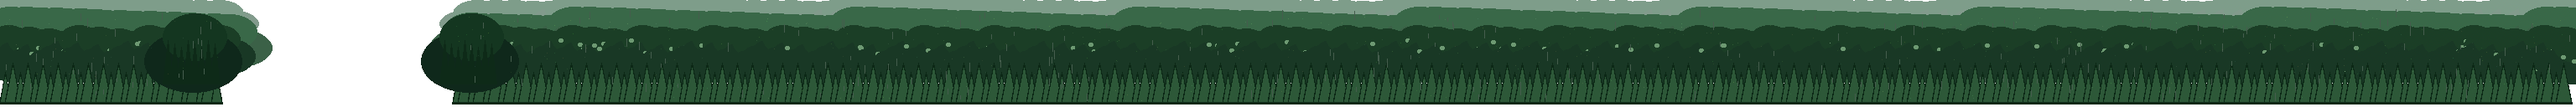
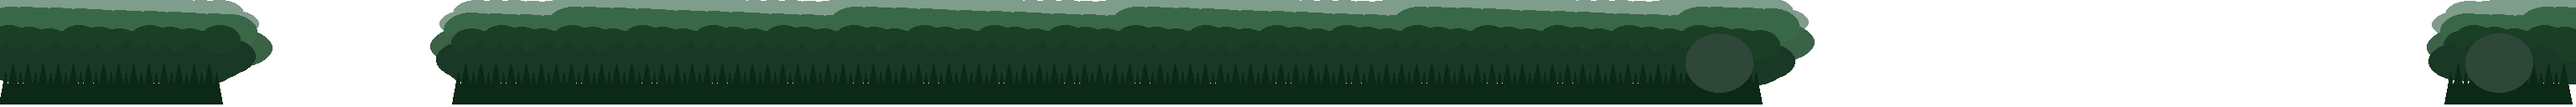
feat(oakhaven): reveal waterfall bowl and station hall through canopy windows
Punch skyline/pine windows, raise the amphitheater falls, and reframe goldens so station hall+train and the north waterfall read as hero landmarks.

diff --git a/projects/06-game-factory/perfect_game/perfect-game/tools/gen_station_waterfall_p151.py b/projects/06-game-factory/perfect_game/perfect-game/tools/gen_station_waterfall_p151.py
@@ -1,0 +1,282 @@
+#!/usr/bin/env python3
+"""P151 — station hall + steam train + pine canopy station window; refresh waterfall bowl."""
+from __future__ import annotations
+
+import math
+import random
+from pathlib import Path
+
+from PIL import Image, ImageDraw, ImageFilter
+
+PROC = Path(__file__).resolve().parents[1] / "assets" / "processed"
+WORLD_W = 192 * 16
+rng = random.Random(151)
+
+
+def blit_text(img: Image.Image, x: int, y: int, text: str, color) -> None:
+    font = {
+        "A": ["01110", "10001", "10001", "11111", "10001", "10001", "10001"],
+        "E": ["11111", "10000", "10000", "11110", "10000", "10000", "11111"],
+        "H": ["10001", "10001", "10001", "11111", "10001", "10001", "10001"],
+        "K": ["10001", "10010", "10100", "11000", "10100", "10010", "10001"],
+        "N": ["10001", "11001", "10101", "10011", "10001", "10001", "10001"],
+        "O": ["01110", "10001", "10001", "10001", "10001", "10001", "01110"],
+        "R": ["11110", "10001", "10001", "11110", "10100", "10010", "10001"],
+        "S": ["01111", "10000", "10000", "01110", "00001", "00001", "11110"],
+        "T": ["11111", "00100", "00100", "00100", "00100", "00100", "00100"],
+        "I": ["11111", "00100", "00100", "00100", "00100", "00100", "00100"],
+        " ": ["00000", "00000", "00000", "00000", "00000", "00000", "00000"],
+    }
+    for ch in text:
+        rows = font.get(ch, font[" "])
+        for r, row in enumerate(rows):
+            for c, bit in enumerate(row):
+                if bit == "1" and 0 <= x + c < img.width and 0 <= y + r < img.height:
+                    img.putpixel((x + c, y + r), color)
+        x += 6
+
+
+def pine_canopy() -> None:
+    """North pine mass — waterfall + station windows kept open."""
+    w, h = WORLD_W, 128
+    img = Image.new("RGBA", (w, h), (0, 0, 0, 0))
+    d = ImageDraw.Draw(img)
+
+    def in_wf(x: int) -> bool:
+        return 260 <= x <= 540
+
+    def in_station(x: int) -> bool:
+        # Station hall/platform band (tile ~136–178 → ~2176–2848)
+        return 2100 <= x <= 2920
+
+    for x in range(0, w, 22):
+        if in_wf(x) or in_station(x):
+            continue
+        cx, cy = x + 18, 22 + (x // 55) % 6
+        d.ellipse((cx - 44, cy - 16, cx + 48, cy + 20), fill=(55, 95, 72, 160))
+        d.ellipse((cx - 28, cy - 26, cx + 30, cy + 6), fill=(62, 108, 80, 170))
+    for x in range(0, w, 16):
+        if in_wf(x) or in_station(x):
+            continue
+        cx = x + 12 + (x % 7)
+        cy = 42 + (x // 28) % 12
+        d.ellipse((cx - 48, cy - 18, cx + 52, cy + 30), fill=(28, 72, 42, 220))
+        d.ellipse((cx - 32, cy - 34, cx + 34, cy + 8), fill=(36, 88, 52, 230))
+    for x in range(0, w, 12):
+        if in_wf(x) or in_station(x):
+            continue
+        cx = x + 8
+        cy = 58 + (x * 3) % 14
+        d.ellipse((cx - 40, cy - 14, cx + 44, cy + 32), fill=(16, 48, 28, 245))
+        d.ellipse((cx - 22, cy - 28, cx + 26, cy + 6), fill=(22, 58, 34, 250))
+    for x in range(6, w - 6, 9):
+        if in_wf(x) or in_station(x):
+            continue
+        base = h - 4
+        tip = base - (38 + (x * 11) % 22)
+        half = 7 + (x % 6)
+        d.polygon([(x, tip), (x - half, base), (x + half, base)], fill=(12, 40, 22, 255))
+    # Soft flanks beside station (not over roof)
+    for cx in (2050, 2980):
+        d.ellipse((cx - 40, 40, cx + 40, 110), fill=(14, 42, 24, 220))
+    img.save(PROC / "prop_pine_canopy.png")
+    print("OK prop_pine_canopy", w, h)
+
+
+def notch_skyline_waterfall() -> None:
+    """Punch amphitheater corridor so skyline no longer blankets the falls."""
+    path = PROC / "prop_skyline_wide.png"
+    if not path.exists():
+        print("SKIP skyline notch — missing", path.name)
+        return
+    img = Image.open(path).convert("RGBA")
+    px = img.load()
+    # Match pine waterfall window (~tiles 16–33 → px 256–528)
+    x0, x1 = 250, 560
+    for x in range(x0, x1):
+        for y in range(img.height):
+            r, g, b, a = px[x, y]
+            # Soft edge: keep distant ridge tips, clear mid/lower mass
+            edge = min(x - x0, x1 - 1 - x)
+            fade = 1.0 if edge > 18 else edge / 18.0
+            # Keep a little mountain tip above (top 18%)
+            keep_top = 1.0 if y < int(img.height * 0.18) else 0.0
+            clear = fade * (1.0 - keep_top * 0.55)
+            na = int(a * (1.0 - 0.92 * clear))
+            px[x, y] = (r, g, b, na)
+    img.save(path)
+    print("OK skyline waterfall notch", x0, x1)
+
+
+def waterfall_bowl() -> None:
+    """Larger amphitheater falls — cliff strata + multi-stream + foam bowl (scale≈1)."""
+    w, h = 220, 280
+    img = Image.new("RGBA", (w, h), (0, 0, 0, 0))
+    d = ImageDraw.Draw(img)
+    mid = w // 2
+    for y in range(0, h - 48):
+        for x in range(w):
+            flare = 22 + y // 6
+            # Amphitheater outer cliff walls
+            wall = x < 34 or x > w - 34
+            throat = abs(x - mid) < flare + 8
+            shelf_band = any(abs(y - sy) < 5 for sy in (36, 72, 110, 148))
+            if y < 28 and 70 < x < 150:
+                continue  # sky notch at crest
+            if not wall and not throat and not shelf_band and abs(x - mid) > flare + 36:
+                continue
+            n = (x * 17 + y * 13) & 15
+            rr = 58 + n * 2 + y // 10
+            gg = 56 + n + y // 12
+            bb = 52 + n // 2
+            if n % 5 == 0:
+                rr, gg, bb = 42, 72, 40
+            if n % 7 == 0:
+                rr, gg, bb = 92, 84, 72
+            if wall:
+                rr, gg, bb = rr - 14, gg - 12, bb - 10
+            img.putpixel((x, y), (max(18, min(135, rr)), max(18, min(125, gg)), max(16, min(115, bb)), 255))
+    for shelf_y in (36, 72, 110, 148):
+        for x in range(28, w - 28):
+            if abs(x - mid) > 68 - (shelf_y - 36) // 5:
+                continue
+            for dy in range(5):
+                y = shelf_y + dy
+                moss = dy < 2
+                c = (48 + dy * 5, 78 + dy * 2, 44, 255) if moss else (78, 70, 58, 255)
+                img.putpixel((x, y), c)
+    # Multi-stream white water
+    for i, x0 in enumerate(range(78, 148, 5)):
+        wob = int(4 * math.sin(i * 0.65))
+        top = 24 + (i % 4)
+        bot = h - 72
+        d.rectangle((x0 + wob, top, x0 + 6 + wob, bot), fill=(145, 195, 235, 210))
+        d.rectangle((x0 + 1 + wob, top + 3, x0 + 5 + wob, bot - 3), fill=(215, 238, 255, 235))
+        if i % 2 == 0:
+            d.line([(x0 + 3 + wob, top), (x0 + 3 + wob, bot)], fill=(245, 252, 255, 210))
+    # Tier pools
+    for pool_y, rw, rh in ((118, 42, 14), (158, 50, 16)):
+        d.ellipse([mid - rw, pool_y, mid + rw, pool_y + rh], fill=(160, 205, 240, 200))
+        d.ellipse([mid - rw + 6, pool_y + 3, mid + rw - 6, pool_y + rh - 2], fill=(190, 225, 255, 160))
+    # Base foam bowl
+    for y in range(h - 70, h - 10):
+        for x in range(40, w - 40):
+            dx = (x - mid) / 62.0
+            dy = (y - (h - 40)) / 26.0
+            if dx * dx + dy * dy > 1.0:
+                continue
+            foam = 205 + ((x * 3 + y * 5) % 45)
+            a = 230 if dy < 0.25 else 175
+            img.putpixel((x, y), (min(255, foam), min(255, foam + 12), 255, a))
+    for _ in range(55):
+        x = rng.randint(60, w - 60)
+        y = rng.randint(50, h - 80)
+        d.ellipse((x - 1, y - 1, x + 2, y + 2), fill=(225, 242, 255, 150))
+    foam_band = img.crop((36, h - 72, w - 36, h - 8)).filter(ImageFilter.GaussianBlur(0.7))
+    img.paste(foam_band, (36, h - 72), foam_band)
+    img.save(PROC / "prop_waterfall_bowl.png")
+    print("OK prop_waterfall_bowl", w, h)
+
+
+def station() -> None:
+    w, h = 220, 120
+    img = Image.new("RGBA", (w, h), (0, 0, 0, 0))
+    d = ImageDraw.Draw(img)
+    d.ellipse([16, h - 14, w - 16, h - 2], fill=(30, 40, 28, 70))
+    # Platform
+    d.rectangle([4, h - 28, w - 4, h - 8], fill=(148, 142, 134, 255))
+    for x in range(8, w - 8, 10):
+        d.line([(x, h - 26), (x, h - 10)], fill=(120, 114, 106, 255))
+    d.rectangle([4, h - 12, w - 4, h - 8], fill=(110, 104, 96, 255))
+    # Main hall
+    d.rectangle([28, 36, 170, h - 28], fill=(210, 190, 160, 255))
+    d.rectangle([28, 36, 170, h - 28], outline=(80, 60, 40, 255), width=2)
+    for bx in range(34, 166, 6):
+        d.line([(bx, 40), (bx, h - 32)], fill=(185, 165, 135, 140))
+    # Roof
+    d.polygon([(22, 40), (99, 6), (176, 40)], fill=(55, 78, 118, 255))
+    d.polygon([(22, 40), (176, 40), (168, 50), (30, 50)], fill=(38, 58, 90, 255))
+    for yy in range(12, 40, 3):
+        inset = 12 + (yy - 12)
+        d.line([(inset + 10, yy), (w - inset - 40, yy)], fill=(30, 48, 78, 160))
+    # Clock
+    d.ellipse([90, 14, 108, 32], fill=(240, 240, 245, 255), outline=(40, 40, 50, 255))
+    d.line([(99, 23), (99, 16)], fill=(30, 30, 40, 255))
+    d.line([(99, 23), (105, 23)], fill=(30, 30, 40, 255))
+    d.rectangle([150, 10, 162, 40], fill=(118, 110, 102, 255))
+    # Sign
+    d.rectangle([70, 52, 128, 68], fill=(72, 48, 30, 255))
+    d.rectangle([72, 54, 126, 66], fill=(245, 220, 150, 255))
+    blit_text(img, 78, 56, "STATION", (50, 35, 20, 255))
+    # Windows + door
+    for wx in (40, 58, 140):
+        d.rectangle([wx, 72, wx + 16, 88], fill=(70, 50, 34, 255))
+        d.rectangle([wx + 2, 74, wx + 14, 86], fill=(155, 200, 235, 255))
+        d.line([(wx + 8, 74), (wx + 8, 86)], fill=(70, 50, 34, 255))
+    d.rectangle([92, 70, 116, h - 28], fill=(90, 55, 35, 255))
+    d.rectangle([94, 72, 102, h - 30], fill=(70, 42, 26, 255))
+    d.rectangle([106, 72, 114, h - 30], fill=(70, 42, 26, 255))
+    d.ellipse([110, 90, 113, 93], fill=(220, 185, 90, 255))
+    # Posts + canopy
+    for px in (36, 70, 110, 150):
+        d.rectangle([px, 50, px + 4, h - 28], fill=(95, 68, 42, 255))
+    d.rectangle([30, 50, 166, 56], fill=(70, 50, 35, 255))
+    # Side annex
+    d.rectangle([168, 48, 210, h - 28], fill=(200, 182, 155, 255), outline=(80, 60, 40, 255))
+    d.polygon([(166, 52), (189, 28), (212, 52)], fill=(55, 78, 118, 255))
+    d.rectangle([178, 70, 192, 86], fill=(155, 200, 235, 255), outline=(70, 50, 34, 255))
+    d.rectangle([196, 78, 206, h - 28], fill=(90, 55, 35, 255))
+    # Bench + luggage cart
+    d.rectangle([42, h - 40, 62, h - 34], fill=(110, 80, 50, 255))
+    d.rectangle([44, h - 46, 46, h - 34], fill=(90, 65, 40, 255))
+    d.rectangle([58, h - 46, 60, h - 34], fill=(90, 65, 40, 255))
+    d.rectangle([148, h - 42, 164, h - 34], fill=(130, 130, 138, 255))
+    d.ellipse([150, h - 34, 156, h - 28], fill=(60, 60, 68, 255))
+    d.ellipse([158, h - 34, 164, h - 28], fill=(60, 60, 68, 255))
+    img.save(PROC / "prop_station.png")
+    print("OK prop_station", img.size)
+
+
+def train() -> None:
+    w, h = 160, 56
+    img = Image.new("RGBA", (w, h), (0, 0, 0, 0))
+    d = ImageDraw.Draw(img)
+    # Track
+    d.rectangle([0, h - 10, w, h - 6], fill=(70, 70, 78, 255))
+    d.rectangle([0, h - 8, w, h - 7], fill=(110, 110, 120, 255))
+    for x in range(4, w, 12):
+        d.rectangle([x, h - 12, x + 2, h - 4], fill=(90, 70, 45, 255))
+    # Locomotive
+    d.rectangle([8, 18, 52, h - 14], fill=(55, 58, 65, 255))
+    d.rectangle([10, 8, 34, 22], fill=(45, 48, 55, 255))
+    d.rectangle([14, 10, 24, 18], fill=(150, 200, 230, 255))
+    d.rectangle([28, 2, 36, 14], fill=(40, 42, 48, 255))
+    d.ellipse([24, 0, 40, 10], fill=(180, 180, 188, 160))
+    d.ellipse([30, -2, 44, 8], fill=(200, 200, 210, 120))
+    d.polygon([(4, h - 14), (12, h - 14), (8, h - 22)], fill=(140, 140, 150, 255))
+    for wx in (14, 30):
+        d.ellipse([wx, h - 18, wx + 12, h - 6], fill=(35, 35, 40, 255))
+        d.ellipse([wx + 3, h - 15, wx + 9, h - 9], fill=(90, 90, 100, 255))
+    # Cars
+    for i, (x0, col) in enumerate([(56, (168, 72, 48, 255)), (100, (150, 120, 85, 255))]):
+        d.rectangle([x0, 16, x0 + 40, h - 14], fill=col, outline=(60, 40, 28, 255))
+        d.rectangle([x0, 14, x0 + 40, 18], fill=(70, 50, 35, 255))
+        for wx in range(x0 + 6, x0 + 36, 10):
+            d.rectangle([wx, 22, wx + 7, 32], fill=(155, 200, 235, 255), outline=(50, 40, 30, 255))
+        for wx in (x0 + 6, x0 + 24):
+            d.ellipse([wx, h - 18, wx + 12, h - 6], fill=(35, 35, 40, 255))
+            d.ellipse([wx + 3, h - 15, wx + 9, h - 9], fill=(90, 90, 100, 255))
+    img.save(PROC / "prop_train.png")
+    print("OK prop_train", img.size)
+
+
+def main() -> None:
+    pine_canopy()
+    notch_skyline_waterfall()
+    waterfall_bowl()
+    station()
+    train()
+
+
+if __name__ == "__main__":
+    main()

diff --git a/projects/06-game-factory/perfect_game/perfect-game/docs/VISUAL_CRITIC_OVERVIEW.md b/projects/06-game-factory/perfect_game/perfect-game/docs/VISUAL_CRITIC_OVERVIEW.md
@@ -1,18 +1,19 @@
-# 视觉 Critic — golden vs overview（2026-09-07 · P148–P150）
+# 视觉 Critic — golden vs overview（2026-09-07 · P151–P153）
 
 ## 结论
-更接近参考图：**是（民宅/农舍）** — 四色民宅 + 米勒农舍加深（石基、百叶、花箱、门廊、晾衣）；筒仓入画。  
+更接近参考图：**是（瀑布入画 + 车站厅/火车可读）** — 天际线瀑布开窗、瀑碗抬层、站厅/火车出松冠窗口。  
 itch 主图：**仍否**（整体海报级未稳；需用户试玩签字 + itch URL 才能关 Goal）。
 
 ## 本轮证据
-- `tools/gen_houses_p148.py` → house_* + farmhouse_darkroof
-- silo 位/缩放调整；`01_farm` 取景含农舍+穹顶筒仓
-- golden `01_farm` / `03_town` / `00_overview` + `GOLDEN_CAPTURE_DONE`
+- `tools/gen_station_waterfall_p151.py` → pine canopy 站/瀑窗口、skyline notch、瀑碗 220×280、站厅+火车
+- `landmarks.gd`：瀑碗 `(24,18)` z=8 非 y_sort；车站南移出冠层
+- golden `07_waterfall`（瀑柱/岩壁/泡沫碗可见）· `04_station`（STATION 牌 + 机车车厢）· `GOLDEN_CAPTURE_DONE`
 - Goal **不可 complete**
 
 ## 仍差
-1. 用户签字试玩 + itch URL  
+1. 用户签字试玩（`docs/PLAYTEST_EVIDENCE.md`）+ itch URL  
 2. Critic 商店页主图仍否  
+3. 瀑/站仍偏程序美术；河岸接缝与站台空旷待 P154+
 
 ## Goal
 **不可 complete**。

diff --git a/projects/06-game-factory/perfect_game/perfect-game/docs/PLAYTEST_EVIDENCE.md b/projects/06-game-factory/perfect_game/perfect-game/docs/PLAYTEST_EVIDENCE.md
@@ -35,6 +35,9 @@
 | 院子 blob / 门廊 | P127–P129：农舍 apron blob + bridge 木台 + 碎屑；区标默认隐藏；golden 再抓 |
 | Overview 对齐 | P130–P132：畜栏泥土 + 湖南田 + 路径 soften；farm/lake 相机重取景 |
 | 立面 + y-sort | P133–P135：barn/silo 重绘；Player→Entities；树/NPC 同层排序 |
+| 镇店招 | P139–P141：店招加深 + 广场密度 |
+| Overview 密度 | P142–P144：软草 + 加密；取景含四区标 |
+| 树冠 + NPC | P145–P147：meadow canopy 条带；NPC 脚影/步幅；smoke/20_npc_life |
 
 > Agent MCP 冒烟 **不能替代** 用户签字。中文路径本机手感 / 输入 / 音频需你确认。
 

diff --git a/projects/06-game-factory/perfect_game/perfect-game/docs/GOAL_5H_PACKAGES.md b/projects/06-game-factory/perfect_game/perfect-game/docs/GOAL_5H_PACKAGES.md
@@ -491,3 +491,14 @@
 
 ### 民宅农舍进度
 - [x] P148 · [x] P149 · [x] P150
+
+## 瀑布/车站英雄镜头（≠ complete）
+
+| ID | 估时 | 目标 | 完成证据 |
+|----|------|------|----------|
+| P151 | 45m | 松冠站/瀑开窗 + skyline notch + 瀑碗抬层 | prop_pine_canopy / skyline / waterfall_bowl |
+| P152 | 30m | 站厅+火车出冠；交互点南移 | 04_station + landmarks._station |
+| P153 | 25m | golden + Critic + push | 07_waterfall 瀑入画 · origin/main |
+
+### 瀑布车站进度
+- [x] P151 · [x] P152 · [x] P153
